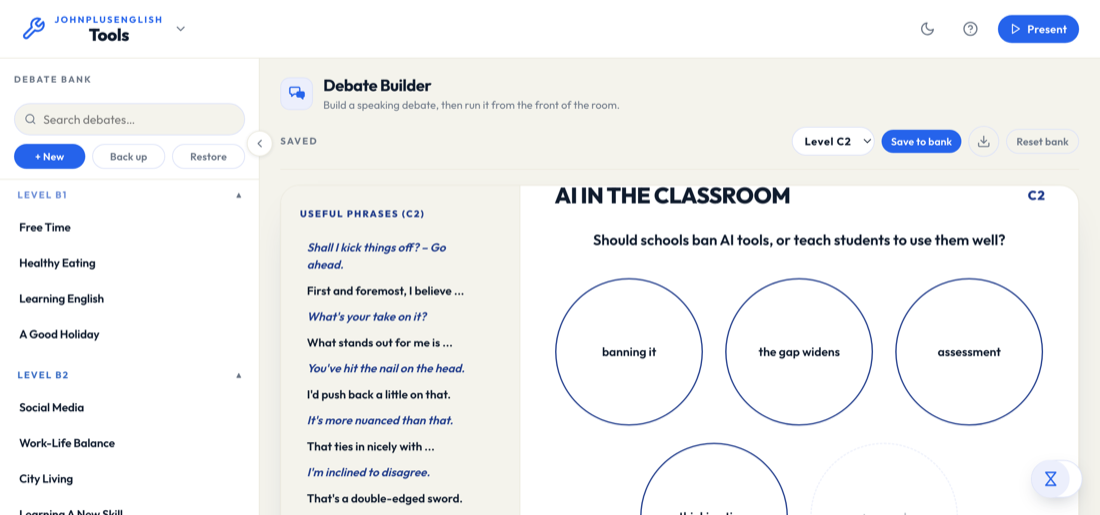
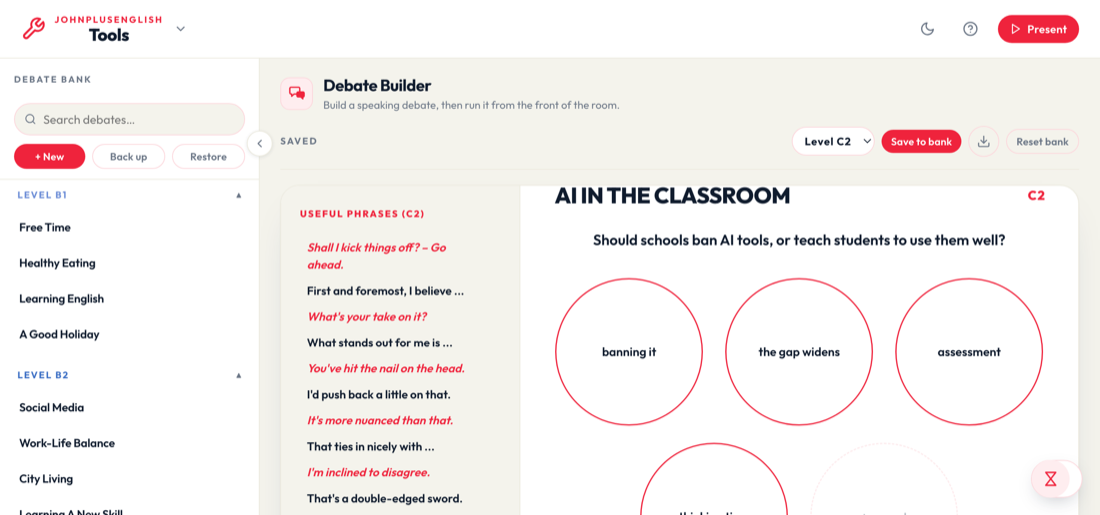
Preview screenshots: recolor each tool's own UI to its gallery accent
Overrides --accent/--accent-deep/--soft/--soft-line (and Debate
Builder's separate --level/--level-ink, which its own renderDebate()
sets as a side effect and would otherwise clobber an earlier override
back to blue) before each screenshot, derived from the same PALETTE
fill as that tool's card stripe/badge. Since the whole site is built
on CSS custom properties, this recolors buttons, borders, highlighted
rows and badges throughout each screenshot automatically, no per-tool
CSS touched.

Screenshot-generation only: the live tool pages are untouched (every
teacher still gets the same blue site regardless of which gallery
card they clicked), confirmed identical after rebuilding — only the
12 preview PNGs and make_preview.py itself changed.

Two things deliberately don't recolor, both hardcoded rather than
tied to a CSS variable: the CEFR level badges (B1/B2/C1/C2, their own
fixed blue scale by design) and the Spin the Wheel's own wheel-slice
palette (its actual game content, not site chrome).

diff --git a/make_preview.py b/make_preview.py
@@ -79,13 +79,71 @@ PROOF = {
     'spin-wheel': 'Riley',
 }
 
+def _hex_to_rgb(h):
+    h = h.lstrip('#')
+    return tuple(int(h[i:i + 2], 16) for i in (0, 2, 4))
+
+
+def _rgb_to_hex(rgb):
+    return '#%02x%02x%02x' % tuple(max(0, min(255, round(c))) for c in rgb)
+
+
+def _blend(hex_color, target_rgb, amount):
+    """hex_color shifted toward target_rgb by amount (0-1)."""
+    r1, g1, b1 = _hex_to_rgb(hex_color)
+    r2, g2, b2 = target_rgb
+    return _rgb_to_hex((r1 + (r2 - r1) * amount, g1 + (g2 - g1) * amount, b1 + (b2 - b1) * amount))
+
+
+# Each gallery card now tags its screenshot with its own PALETTE colour
+# instead of the site's default blue, so the accent stripe / badge / preview
+# read as one thing. --accent and --soft aren't separate hand-picked colours
+# in CHROME_CSS, so a straight swap would leave the wash the wrong hue; both
+# are derived here from the same PALETTE fill instead, same relationship the
+# real blue tokens have to each other (light theme washes toward white, dark
+# theme toward the dark card colour, which is what made the default palette
+# read as blue everywhere in the first place).
+_WHITE, _BLACK = (255, 255, 255), (0, 0, 0)
+_DARK_CARD, _DARK_BG = (0x16, 0x21, 0x3a), (0x0f, 0x17, 0x28)
+
+
+def accent_vars_css(fill, theme):
+    if theme == 'dark':
+        accent = _blend(fill, _WHITE, 0.28)
+        accent_deep = _blend(fill, _WHITE, 0.45)
+        soft = _blend(fill, _DARK_CARD, 0.82)
+        soft_line = _blend(fill, _DARK_BG, 0.62)
+    else:
+        accent = fill
+        accent_deep = _blend(fill, _BLACK, 0.16)
+        soft = _blend(fill, _WHITE, 0.92)
+        soft_line = _blend(fill, _WHITE, 0.82)
+    # --level/--level-ink: the Debate Builder's own colour, independent of
+    # --accent (its bubbles and phrase bank are levelled blue "on John's
+    # call", not accent-linked). Same fill, so it still reads as the one
+    # colour on screen; harmless no-op on every other tool, since none of
+    # them define --level in the first place.
+    return (f"documentElement.style.setProperty('--accent','{accent}');"
+            f"documentElement.style.setProperty('--accent-deep','{accent_deep}');"
+            f"documentElement.style.setProperty('--soft','{soft}');"
+            f"documentElement.style.setProperty('--soft-line','{soft_line}');"
+            f"documentElement.style.setProperty('--level','{accent}');"
+            f"documentElement.style.setProperty('--level-ink','#fff');")
+
+
 WRAPPER = """
 <script>
 /* preview-seed: temporary, written by make_preview.py, never committed */
 (function () {
   function go() {
     try {
+      var documentElement = document.documentElement;
 __SEED__
+      /* After the seed, not before: some tools' own render functions
+         (e.g. the Debate Builder's applyLevelColour) set colour custom
+         properties themselves as a side effect of rendering, and would
+         clobber an earlier override right back to blue. */
+__ACCENT_VARS__
       document.documentElement.setAttribute('data-theme', '__THEME__');
       document.title = 'PREVIEW-OK';
     } catch (e) { console.error('seed failed', e); document.title = 'PREVIEW-FAILED'; }
@@ -110,7 +168,9 @@ def shoot(slug, theme, httpd):
     if not page.exists():
         raise SystemExit(f'make_preview: {page} missing. Run build.py first.')
     base = page.read_text(encoding='utf-8')
-    seeded = WRAPPER.replace('__SEED__', SEEDS[slug]).replace('__THEME__', theme)
+    fill = build.PALETTE[build.BY_SLUG[slug]['accent']]['fill']
+    seeded = (WRAPPER.replace('__ACCENT_VARS__', accent_vars_css(fill, theme))
+                      .replace('__SEED__', SEEDS[slug]).replace('__THEME__', theme))
     i = build.sole_position(base, '</body>', 'the preview seed')
     tmp = ROOT / f'_pv-{slug}-{theme}.html'
     tmp.write_text(base[:i] + seeded + base[i:], encoding='utf-8')
